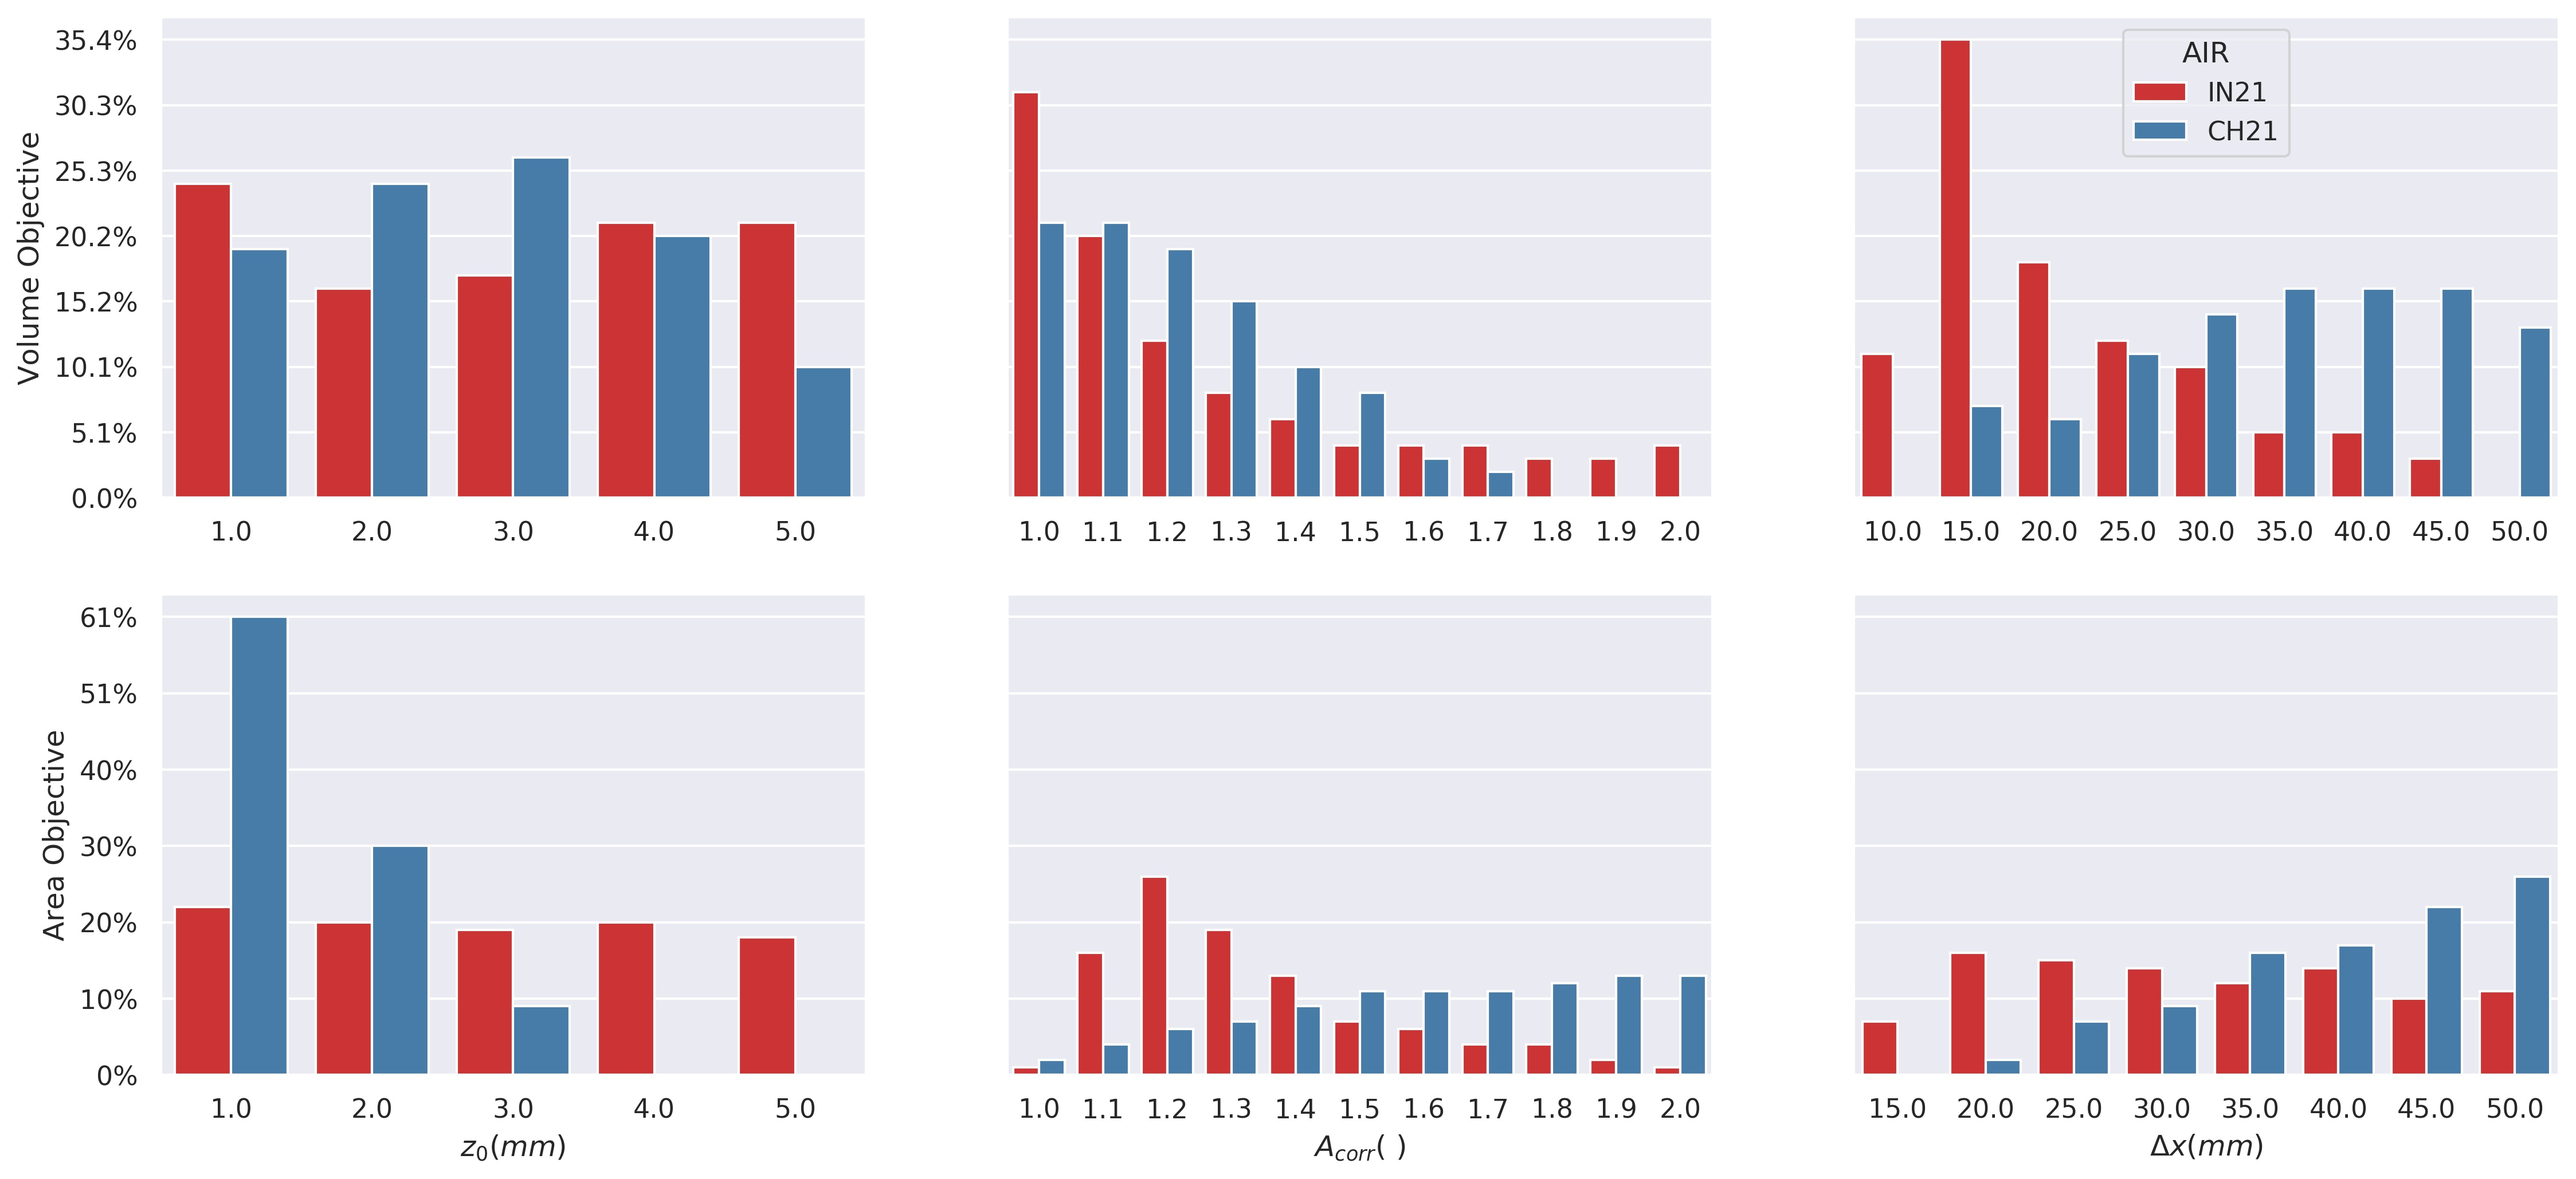
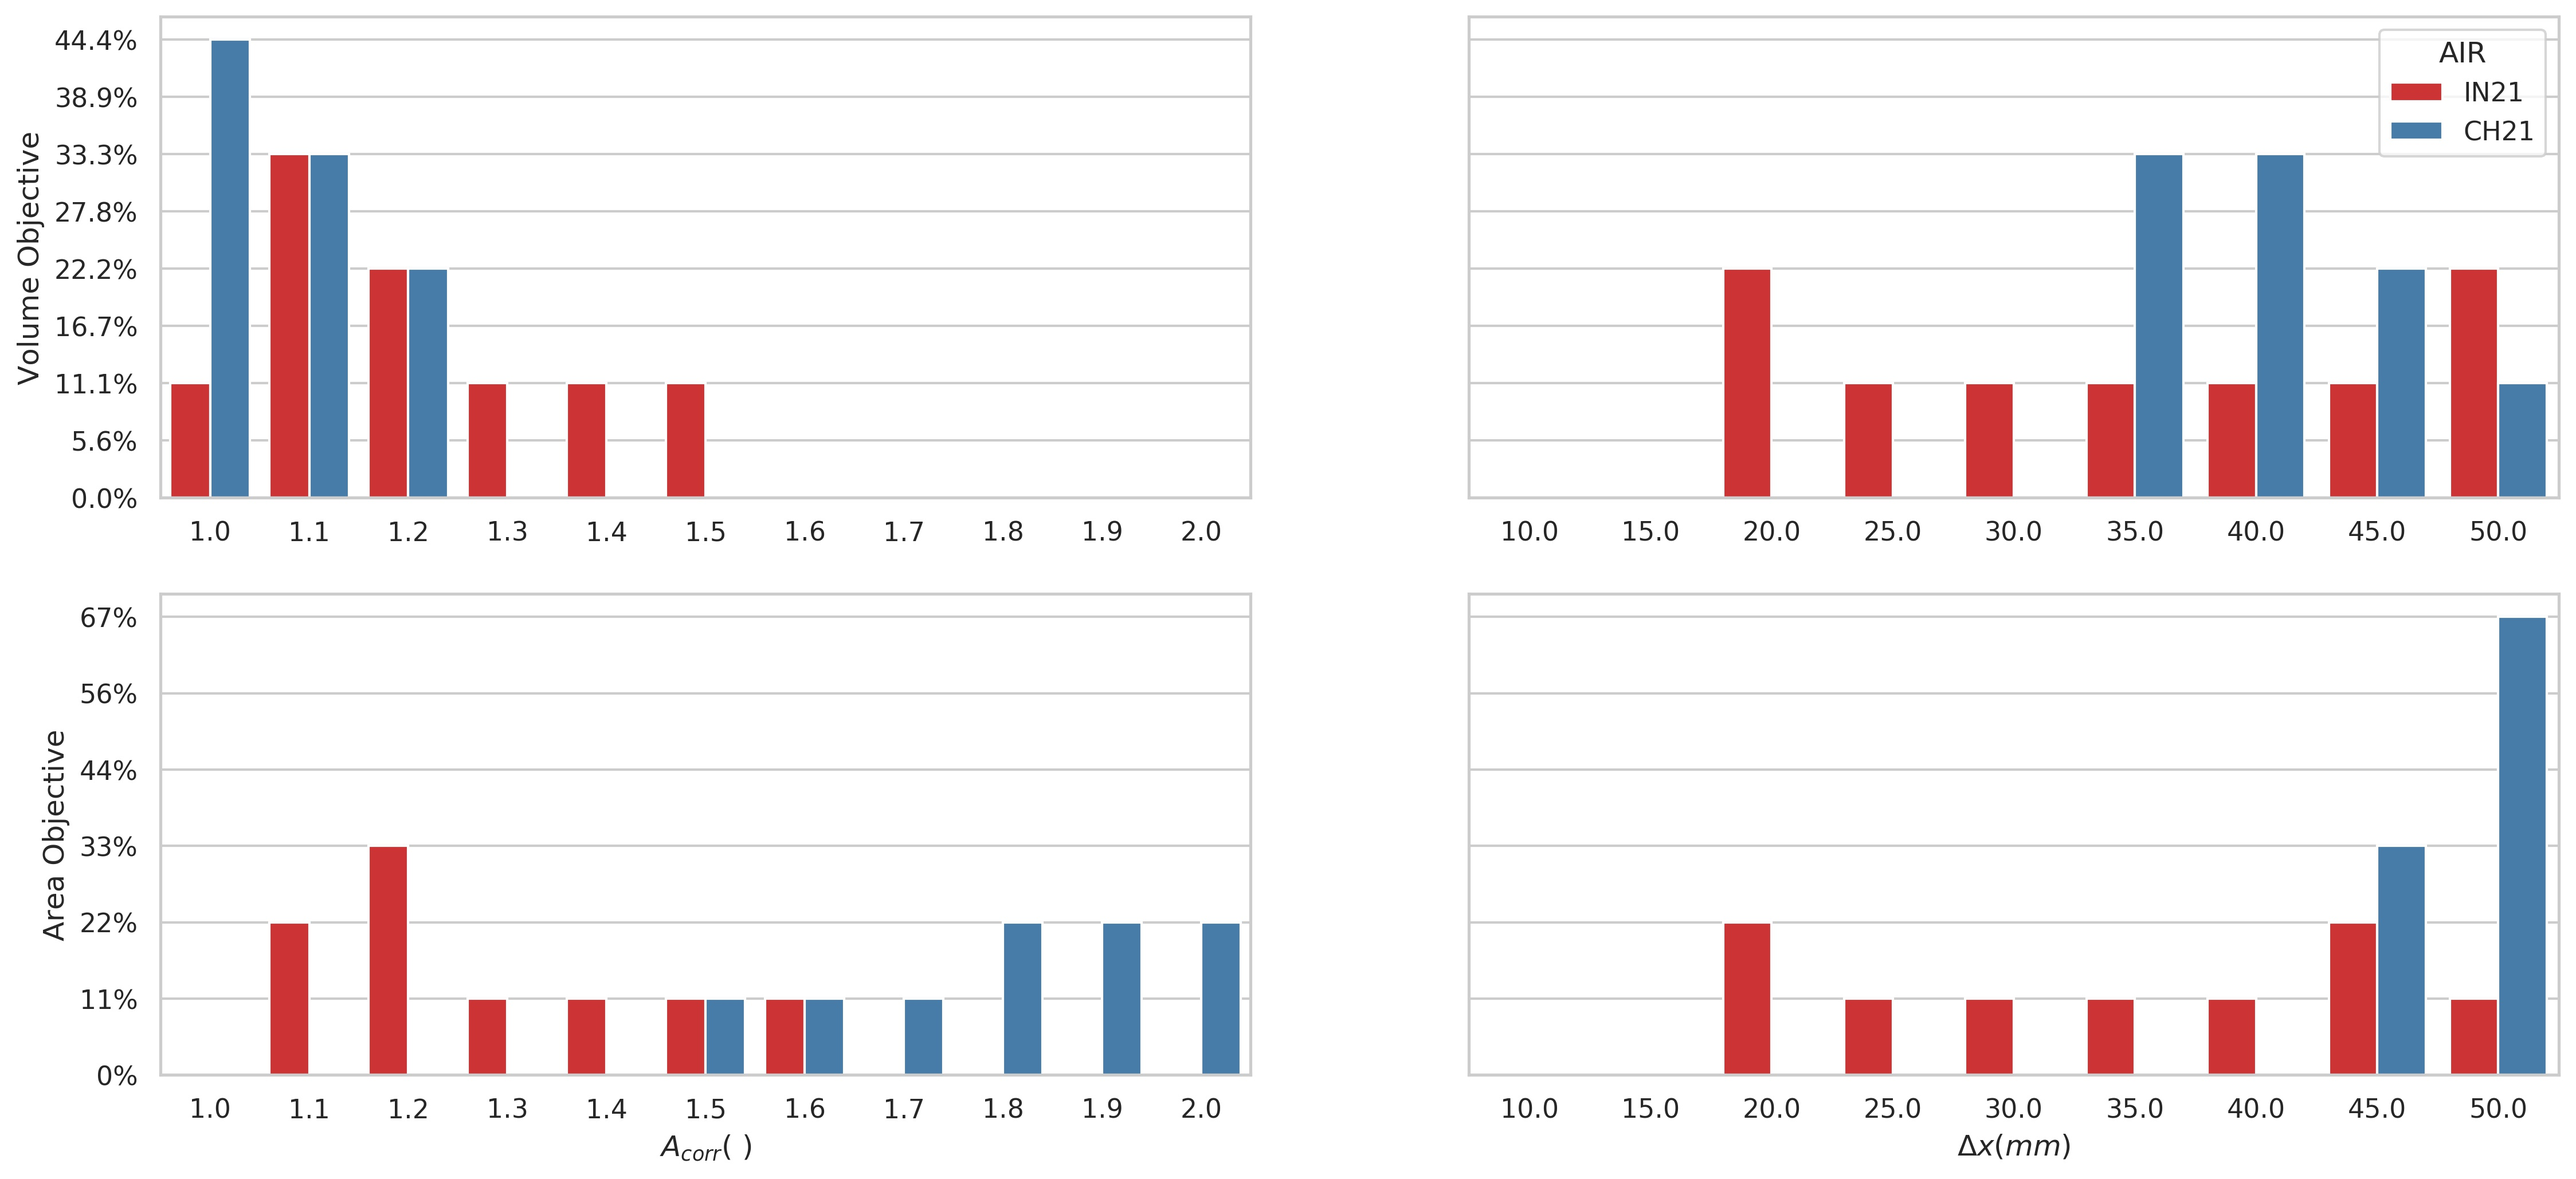
fixed sensitivity histplot

Changed region(s): [[0.0623, 0.4973, 0.9967, 0.9947], [0.3737, 0.0, 0.9967, 0.4662], [0.0311, 0.0311, 0.3426, 0.4662]]

diff --git a/src/plots/sensitivity-hist.py b/src/plots/sensitivity-hist.py
@@ -49,7 +49,7 @@ if __name__ == "__main__":
     kind = ['volume', 'area']
     # kind = ['volume']
 
-    sns.set(style="darkgrid")
+    sns.set(style="whitegrid")
     fig, ax = plt.subplots(
         nrows=len(kind), ncols=len(params), sharey="row", figsize=(18, 8)
     )
@@ -70,7 +70,7 @@ if __name__ == "__main__":
             df = df.set_index('rmse').sort_index().reset_index()
             df['params'] = df['params'].apply(literal_eval)
 
-            num_selected = int(0.2 * df.shape[0])
+            num_selected = int(0.1 * df.shape[0])
             num_total = df.shape[0]
             print()
             print("\tObjective %s Site %s" % (obj, location))
@@ -98,11 +98,39 @@ if __name__ == "__main__":
         print(dfx.head())
         print(dfx.tail())
 
+        df_fill  = []
+        for k, param_name in enumerate(params):
+            ylim = get_parameter_metadata(param_name)['ylim']
+            step = get_parameter_metadata(param_name)['step']
+            bars = np.arange(ylim[0],ylim[1] + step,step)
+            for l in bars:
+                if k == 0:
+                    df_fill.append([l,10, 1, 'IN21'])
+                if k == 1:
+                    df_fill.append([1,l*1000, 1, 'IN21'])
+
+        df_fill = pd.DataFrame(df_fill, columns=['SA_corr', 'DX', 'rmse', 'AIR'])
+        # print(df_fill)
+        # bars = str(bars)
+        # heights = np.ones(len(bars))
+        # print(bars, heights)
+        # ax[j,i].bar(bars, heights)
+
         for i,param_name in enumerate(params):
+            ylim = get_parameter_metadata(param_name)['ylim']
+            step = get_parameter_metadata(param_name)['step']
+            bars = np.arange(ylim[0],ylim[1] + step,step)
+            if param_name == 'DX':
+                bars = [num*1000 for num in bars]
+                bars = [round(num, 0) for num in bars]
+            if param_name == 'SA_corr':
+                bars = [round(num, 1) for num in bars]
+
             if obj == 'volume':
                 j=0
                 sns.countplot( x=param_name, hue ='AIR', palette="Set1", data=dfx,
-                    ax=ax[j,i])
+                    ax=ax[j,i], order= bars)
+
                 if i == 0:
                     ax[j,i].set_ylabel('Volume Objective')
                 else:
@@ -113,7 +141,7 @@ if __name__ == "__main__":
             if obj == 'area':
                 j=1
                 sns.countplot( x=param_name, hue ='AIR', palette="Set1", data=dfx,
-                    ax=ax[j,i])
+                    ax=ax[j,i], order= bars)
                 if i == 0:
                     ax[j,i].set_ylabel('Area Objective')
                 else:
